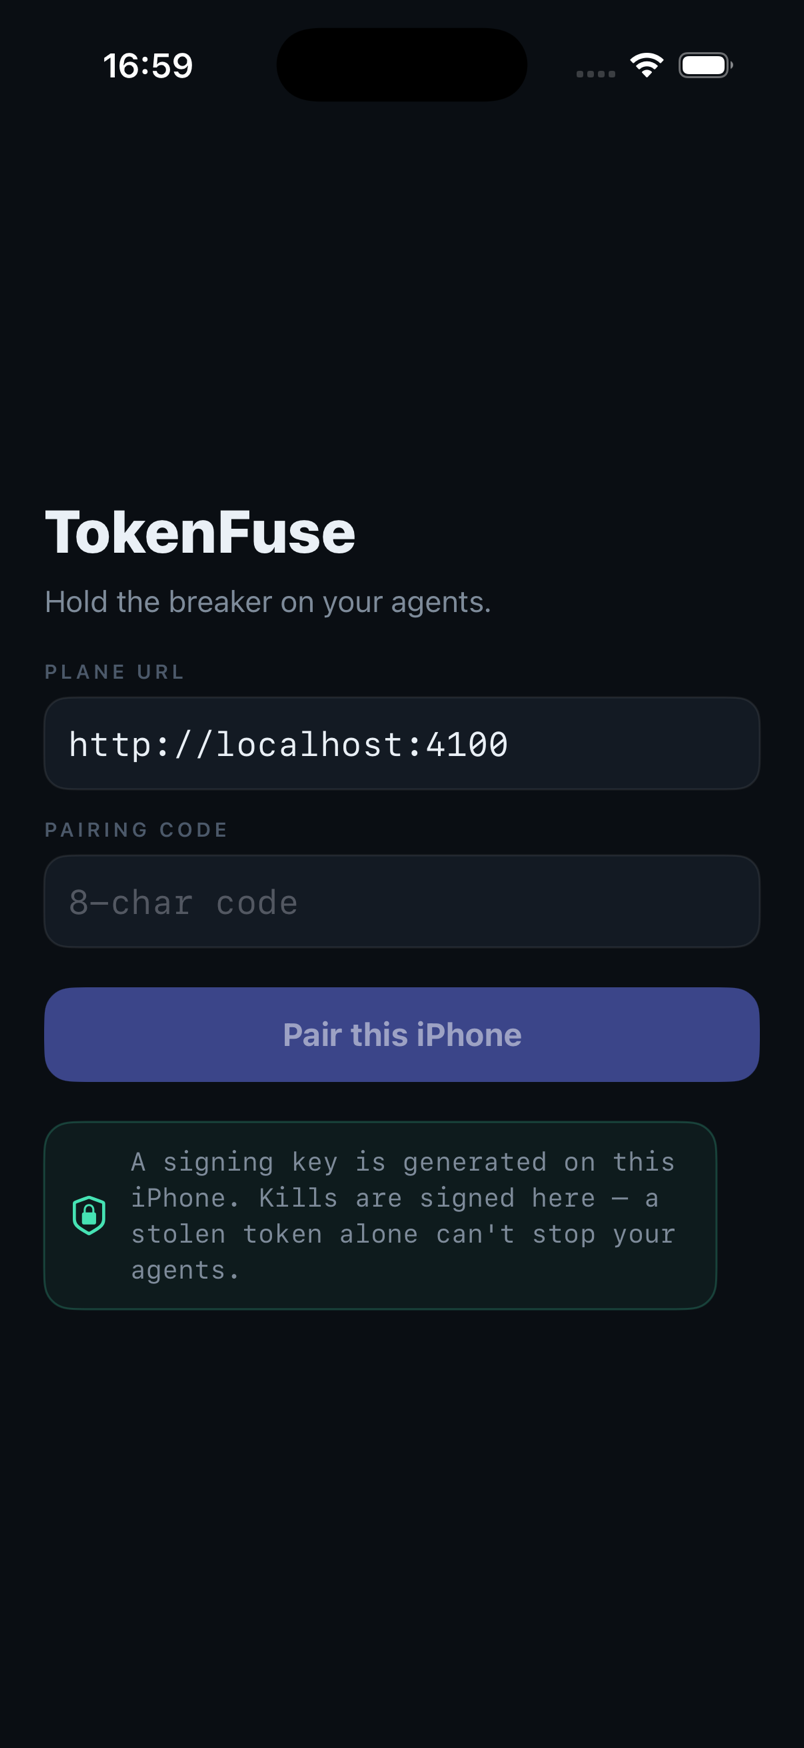
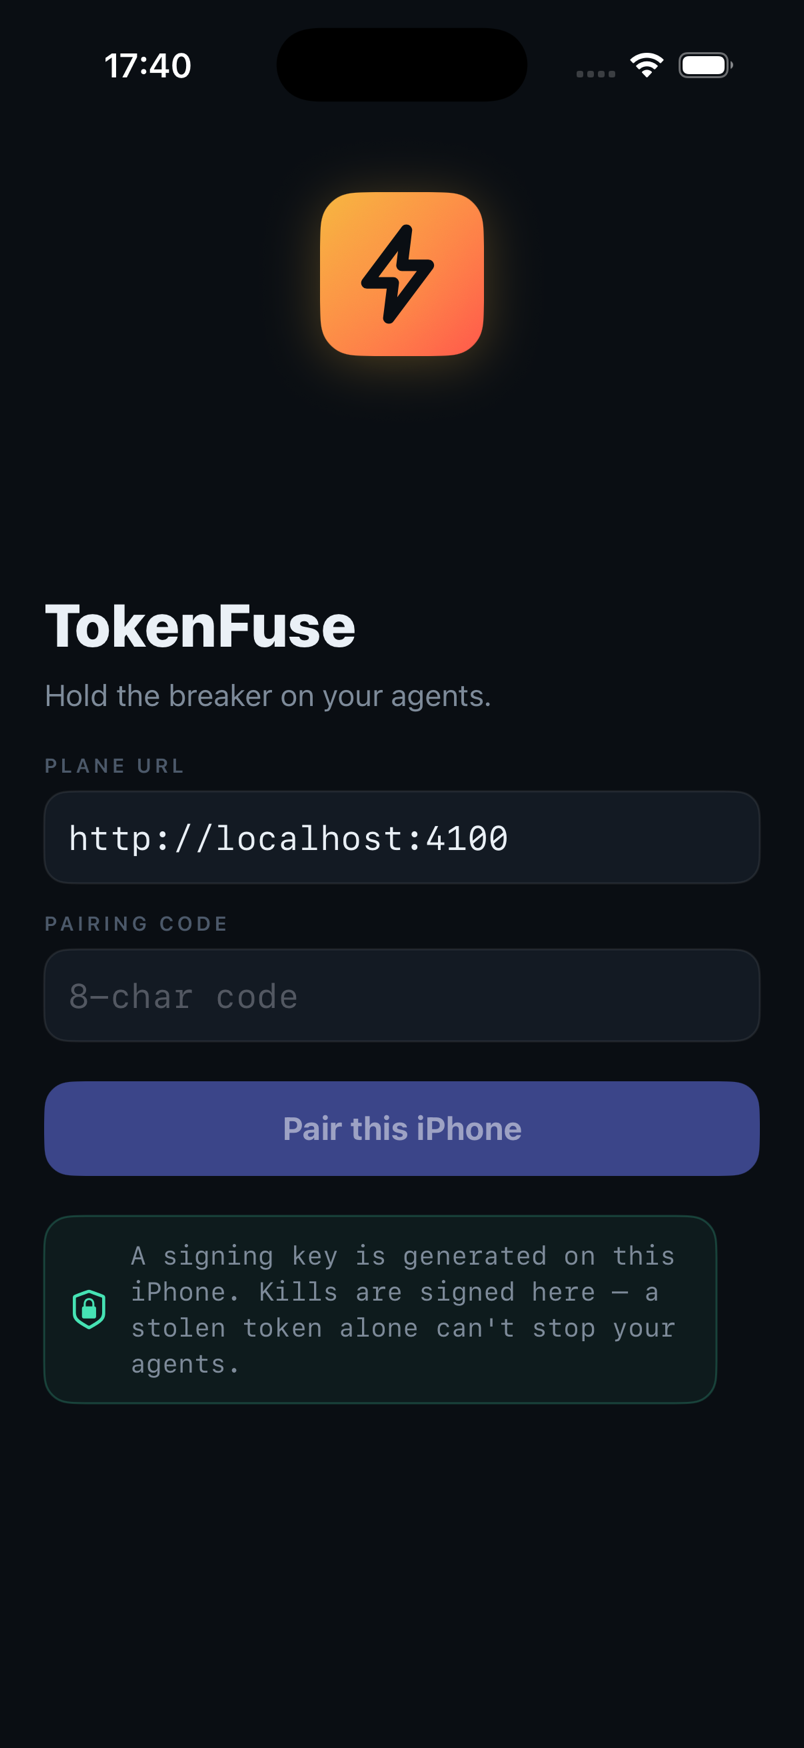
ios(pair): show the TokenFuse emblem at the top of the start screen (#83)
Add a native BrandMark view (the canonical amber→ember tile + black-keyline
bolt, drawn with a BoltShape so it stays crisp at any size) and place it
top-centre on PairView, symmetric from the top corners, above the wordmark.

Same mark as the app icon, the dashboard and the README. Pair screenshot
re-captured (README gallery + showcase).

diff --git a/mobile/ios/Sources/DesignSystem.swift b/mobile/ios/Sources/DesignSystem.swift
@@ -75,6 +75,53 @@ enum Heat: Equatable {
     }
 }
 
+/// The TokenFuse emblem — an amber→ember tile with a black-keyline bolt whose
+/// interior is the ground showing through. The same mark as the app icon, the
+/// web dashboard and the README. Drawn natively so it stays crisp at any size.
+struct BrandMark: View {
+    var size: CGFloat = 80
+
+    var body: some View {
+        RoundedRectangle(cornerRadius: size * 0.2237, style: .continuous)
+            .fill(
+                LinearGradient(
+                    colors: [Color(hex: 0xF6B740), Color(hex: 0xFF574B)],
+                    startPoint: .topLeading, endPoint: .bottomTrailing
+                )
+            )
+            .overlay(
+                BoltShape()
+                    .stroke(Palette.ink, style: StrokeStyle(
+                        lineWidth: size * 0.07, lineCap: .round, lineJoin: .round))
+                    .padding(size * 0.18)
+            )
+            .frame(width: size, height: size)
+            .shadow(color: Color(hex: 0xF6B740).opacity(0.28), radius: size * 0.16, y: size * 0.04)
+            .accessibilityLabel("TokenFuse")
+    }
+}
+
+/// Lucide "zap" bolt (`M13 2 4 14h6l-1 8 9-12h-6z`), drawn in a 24-unit box and
+/// fitted, centred, into the given rect.
+struct BoltShape: Shape {
+    func path(in rect: CGRect) -> Path {
+        let pts: [CGPoint] = [
+            .init(x: 13, y: 2), .init(x: 4, y: 14), .init(x: 10, y: 14),
+            .init(x: 9, y: 22), .init(x: 18, y: 10), .init(x: 12, y: 10),
+        ]
+        let s = min(rect.width, rect.height) / 24
+        let ox = rect.minX + (rect.width - 24 * s) / 2
+        let oy = rect.minY + (rect.height - 24 * s) / 2
+        var p = Path()
+        for (i, pt) in pts.enumerated() {
+            let cp = CGPoint(x: ox + pt.x * s, y: oy + pt.y * s)
+            if i == 0 { p.move(to: cp) } else { p.addLine(to: cp) }
+        }
+        p.closeSubpath()
+        return p
+    }
+}
+
 extension Font {
     /// Big tabular instrument number — the number is the display typography.
     static func instrument(_ size: CGFloat) -> Font {

diff --git a/mobile/ios/Sources/PairView.swift b/mobile/ios/Sources/PairView.swift
@@ -15,30 +15,34 @@ struct PairView: View {
     var body: some View {
         ZStack {
             Palette.ink.ignoresSafeArea()
-            VStack(alignment: .leading, spacing: 20) {
+            VStack(spacing: 0) {
+                BrandMark(size: 82)
+                    .padding(.top, 12)
                 Spacer()
-                brand
-                VStack(alignment: .leading, spacing: 14) {
-                    field(label: "PLANE URL", text: $url, placeholder: "https://…")
-                    field(label: "PAIRING CODE", text: $code, placeholder: "8-char code")
-                }
-                if let error {
-                    Text(error).font(.mono).foregroundStyle(Palette.ember)
-                }
-                Button(action: pair) {
-                    HStack {
-                        if busy { ProgressView().tint(.white) }
-                        Text(busy ? "Pairing…" : "Pair this iPhone")
-                            .font(.system(size: 16, weight: .bold))
+                VStack(alignment: .leading, spacing: 20) {
+                    brand
+                    VStack(alignment: .leading, spacing: 14) {
+                        field(label: "PLANE URL", text: $url, placeholder: "https://…")
+                        field(label: "PAIRING CODE", text: $code, placeholder: "8-char code")
                     }
-                    .frame(maxWidth: .infinity).padding(.vertical, 14)
-                    .background(Palette.iris, in: RoundedRectangle(cornerRadius: 14))
-                    .foregroundStyle(.white)
-                }
-                .disabled(busy || url.isEmpty || code.isEmpty)
-                .opacity(busy || url.isEmpty || code.isEmpty ? 0.5 : 1)
+                    if let error {
+                        Text(error).font(.mono).foregroundStyle(Palette.ember)
+                    }
+                    Button(action: pair) {
+                        HStack {
+                            if busy { ProgressView().tint(.white) }
+                            Text(busy ? "Pairing…" : "Pair this iPhone")
+                                .font(.system(size: 16, weight: .bold))
+                        }
+                        .frame(maxWidth: .infinity).padding(.vertical, 14)
+                        .background(Palette.iris, in: RoundedRectangle(cornerRadius: 14))
+                        .foregroundStyle(.white)
+                    }
+                    .disabled(busy || url.isEmpty || code.isEmpty)
+                    .opacity(busy || url.isEmpty || code.isEmpty ? 0.5 : 1)
 
-                seal
+                    seal
+                }
                 Spacer()
             }
             .padding(22)